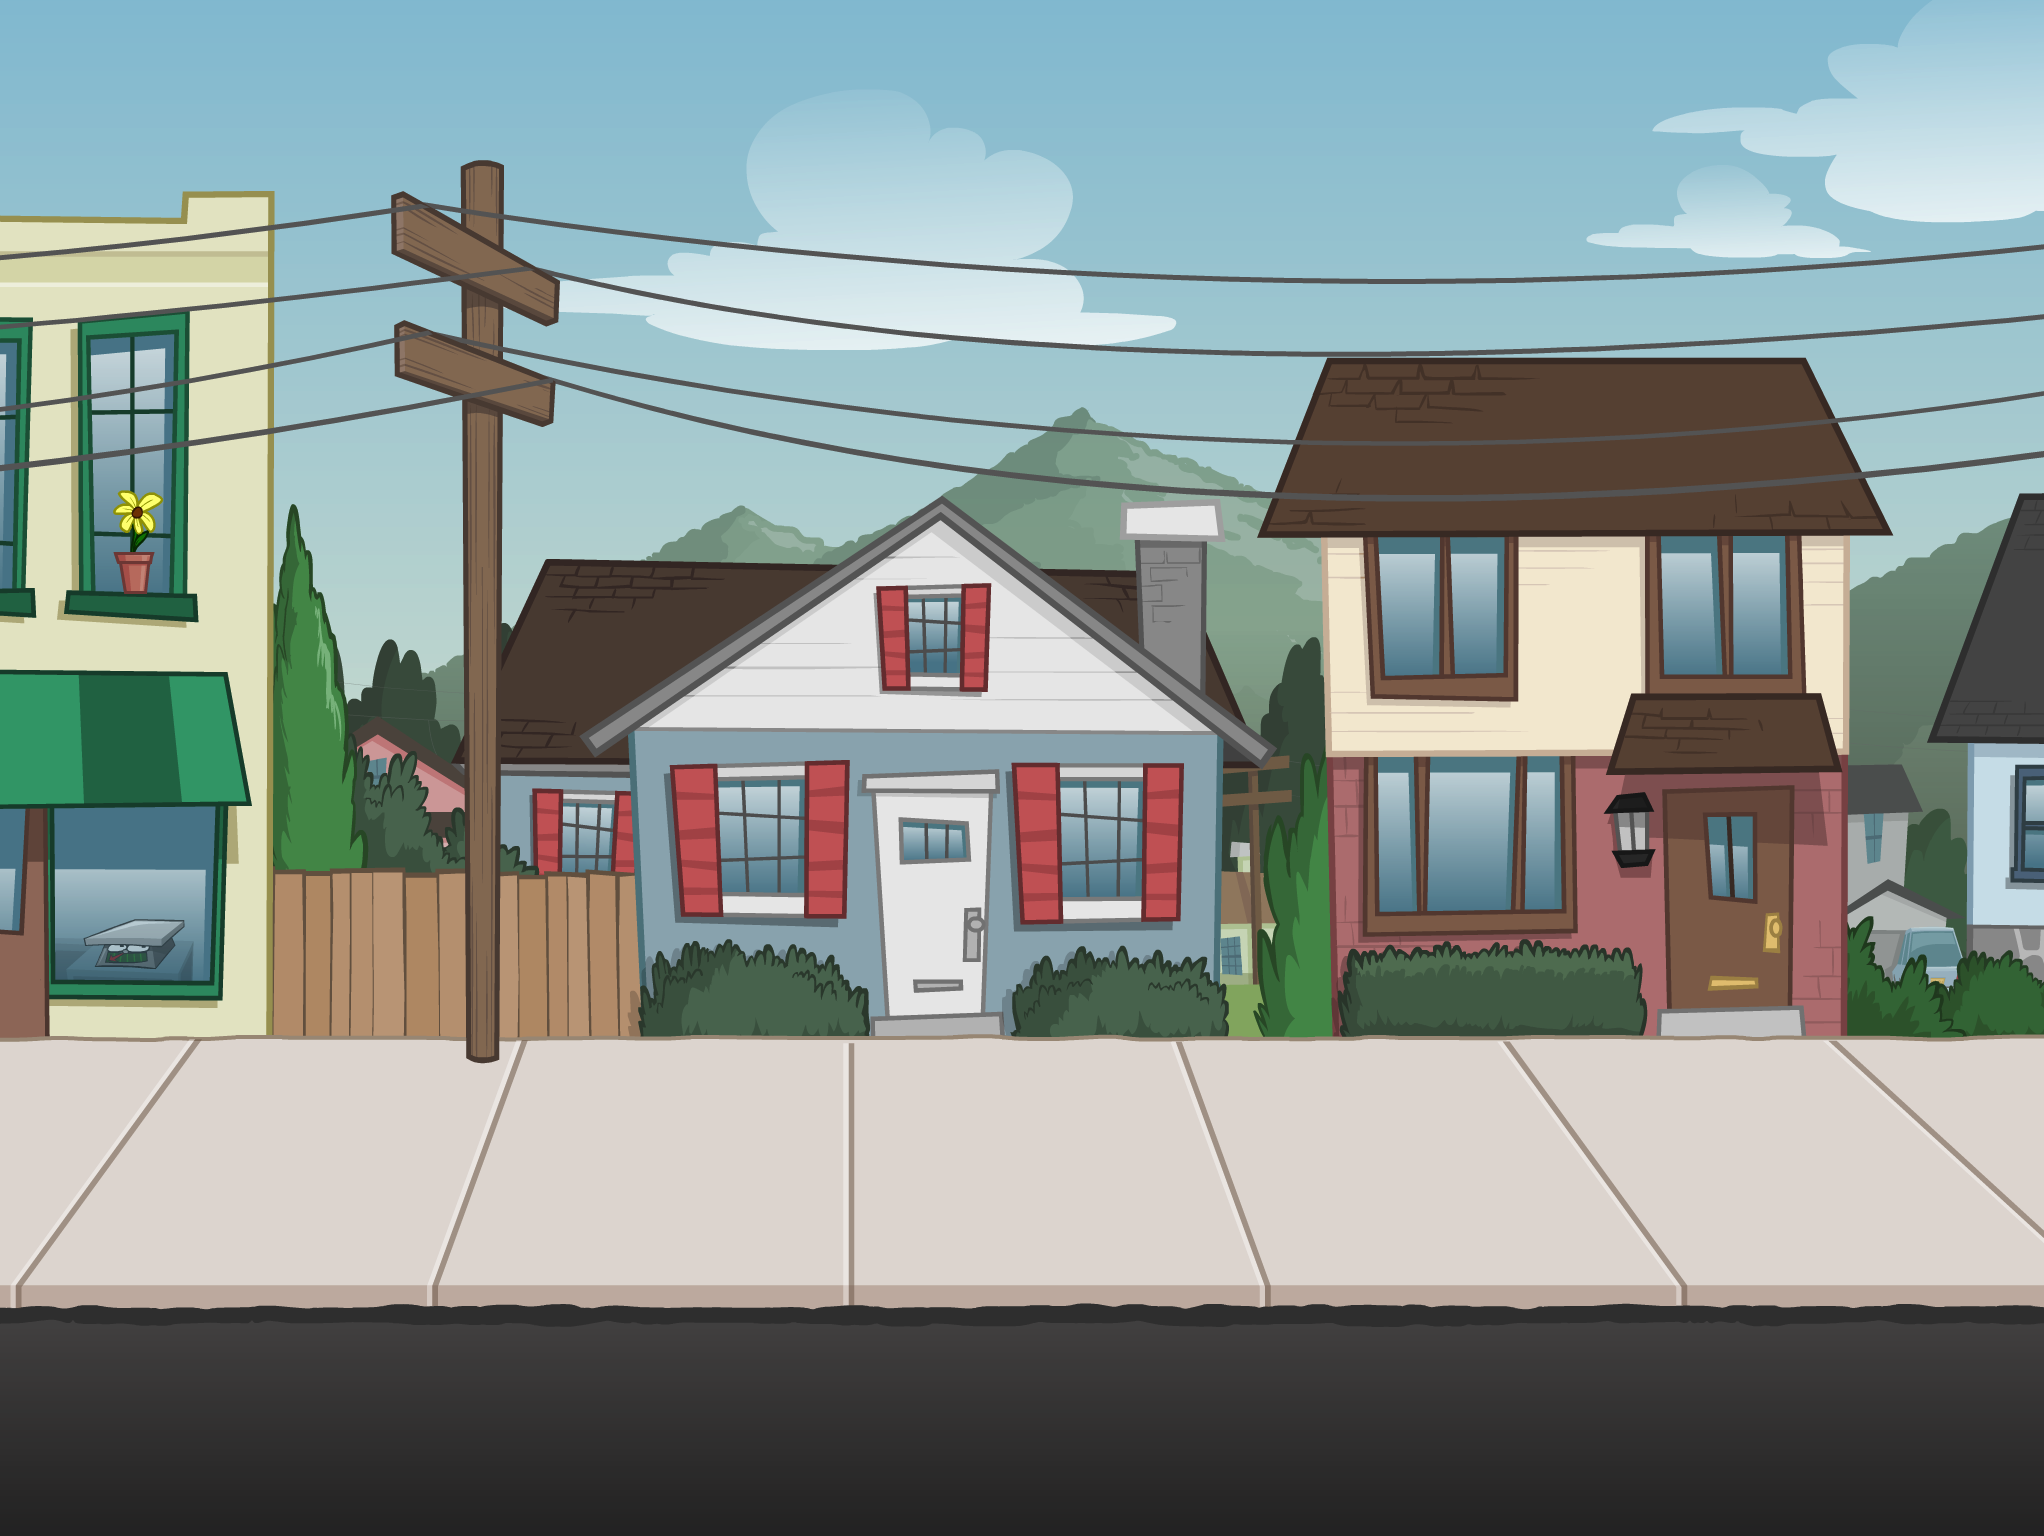
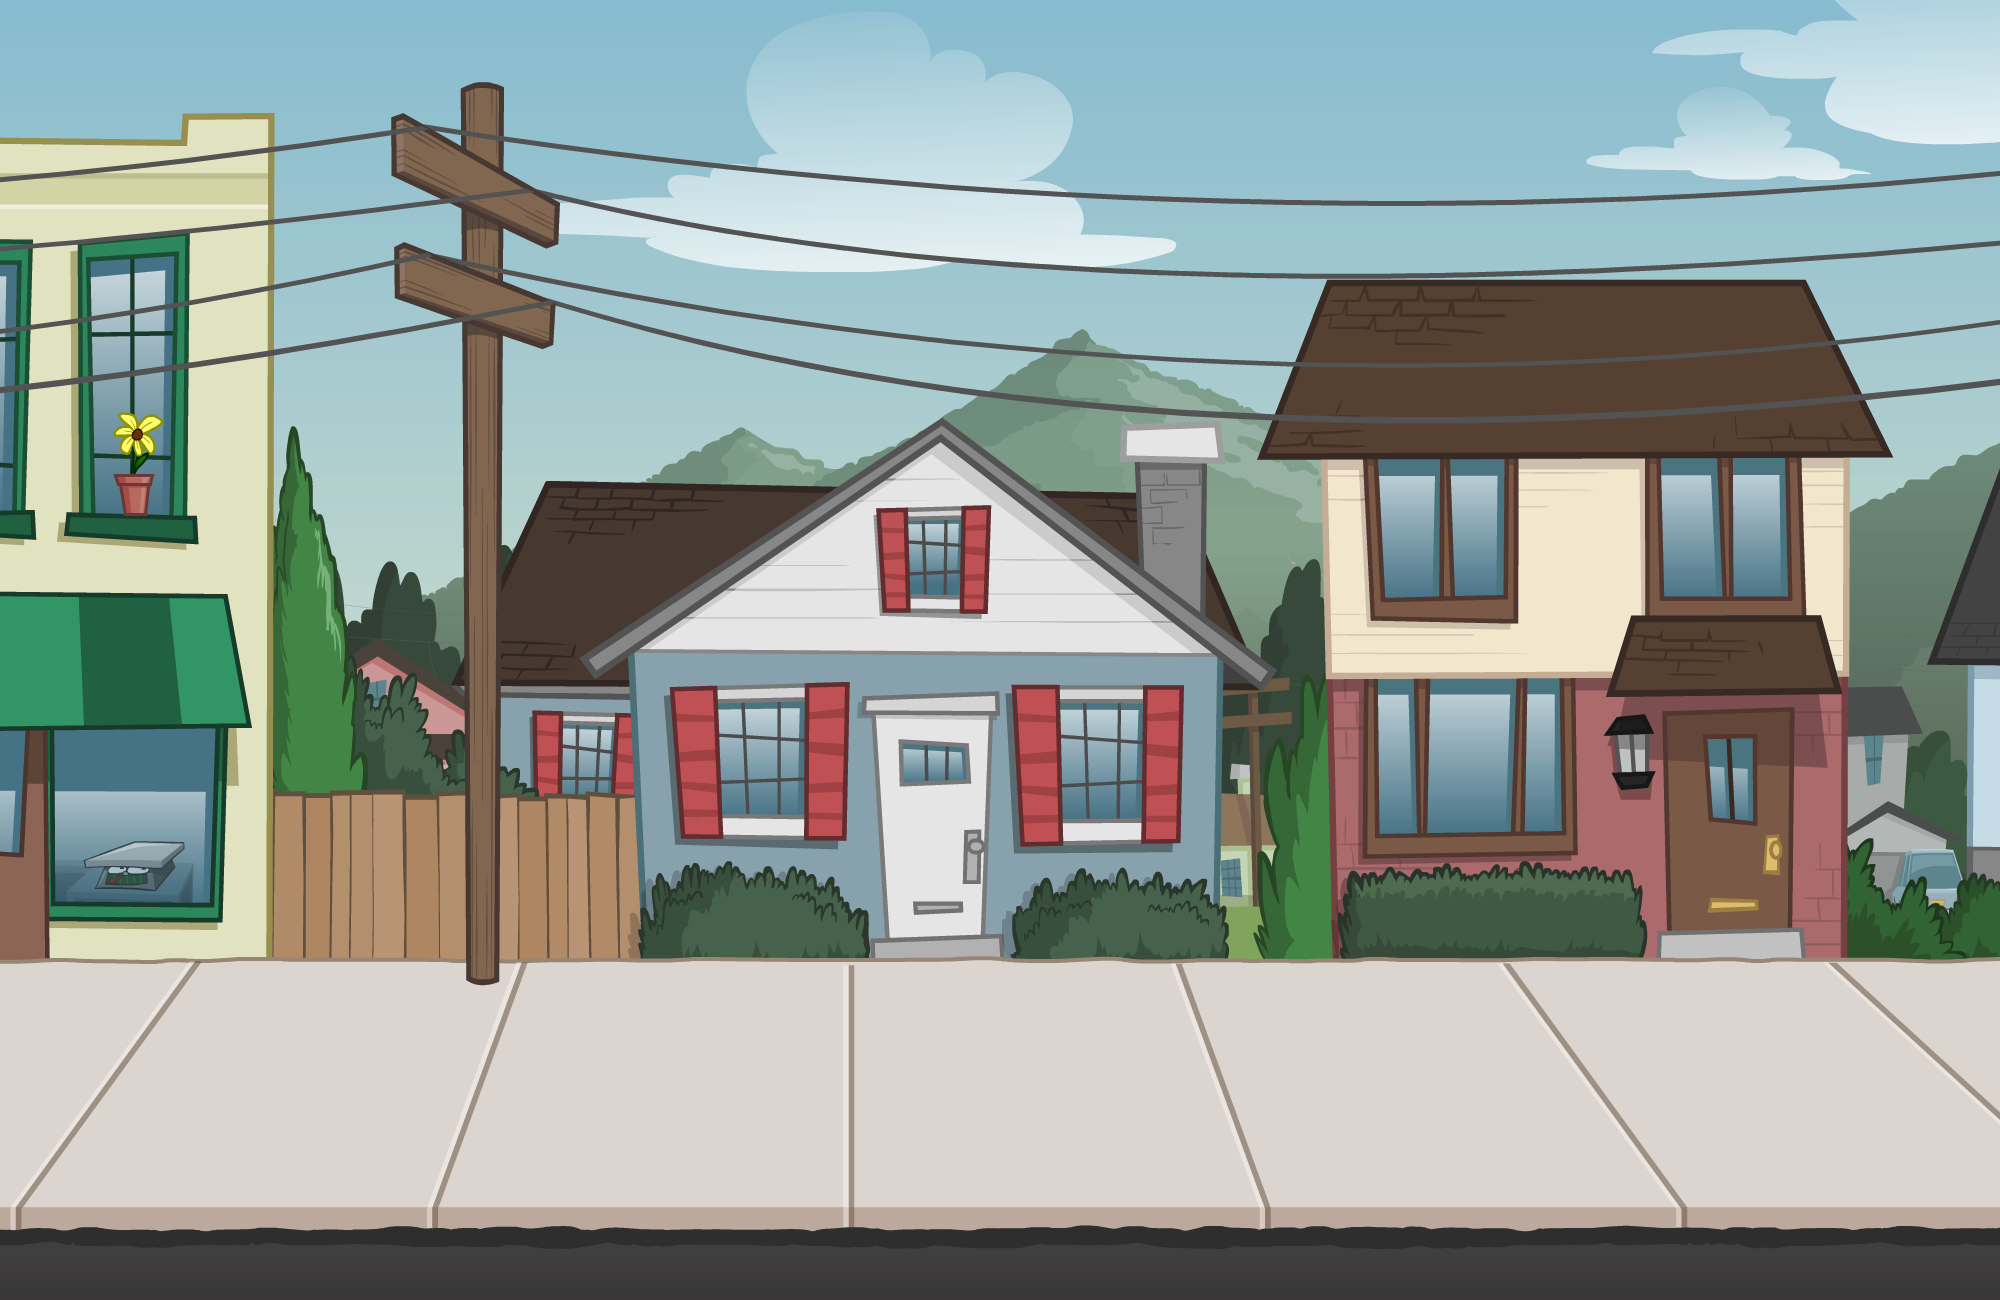
updated background image

diff --git a/src/index.js b/src/index.js
@@ -21,7 +21,7 @@ import DataManifest from "manifest.js";
 device.onReady(() => {
 
     // initialize the display canvas once the device/browser is ready
-    if (!video.init(2044, 1536, {parent : "screen", scale : "auto"})) {
+    if (!video.init(2000, 1300, {parent : "screen", scale : "auto"})) {
         alert("Your browser does not support HTML5 canvas.");
         return;
     }

diff --git a/src/js/stage/play.js b/src/js/stage/play.js
@@ -25,7 +25,7 @@ class PlayScreen extends Stage {
         // add sprite to the scene
         game.world.addChild(background, 1);
 
-        const capguy = new PlayerEntity(w/2, h*0.8, atlas);
+        const capguy = new PlayerEntity(w/2, h*0.9, atlas);
         game.world.addChild(capguy, 2);
     }
 };
